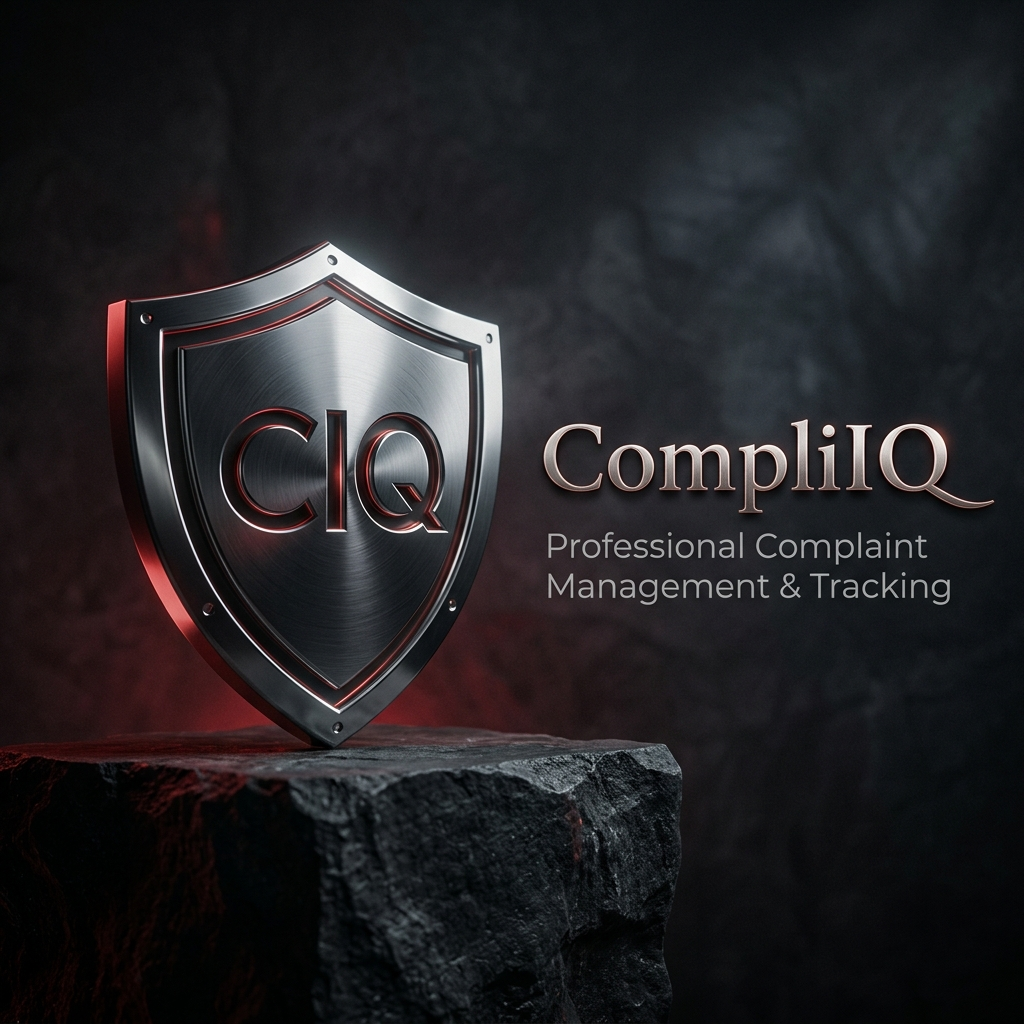
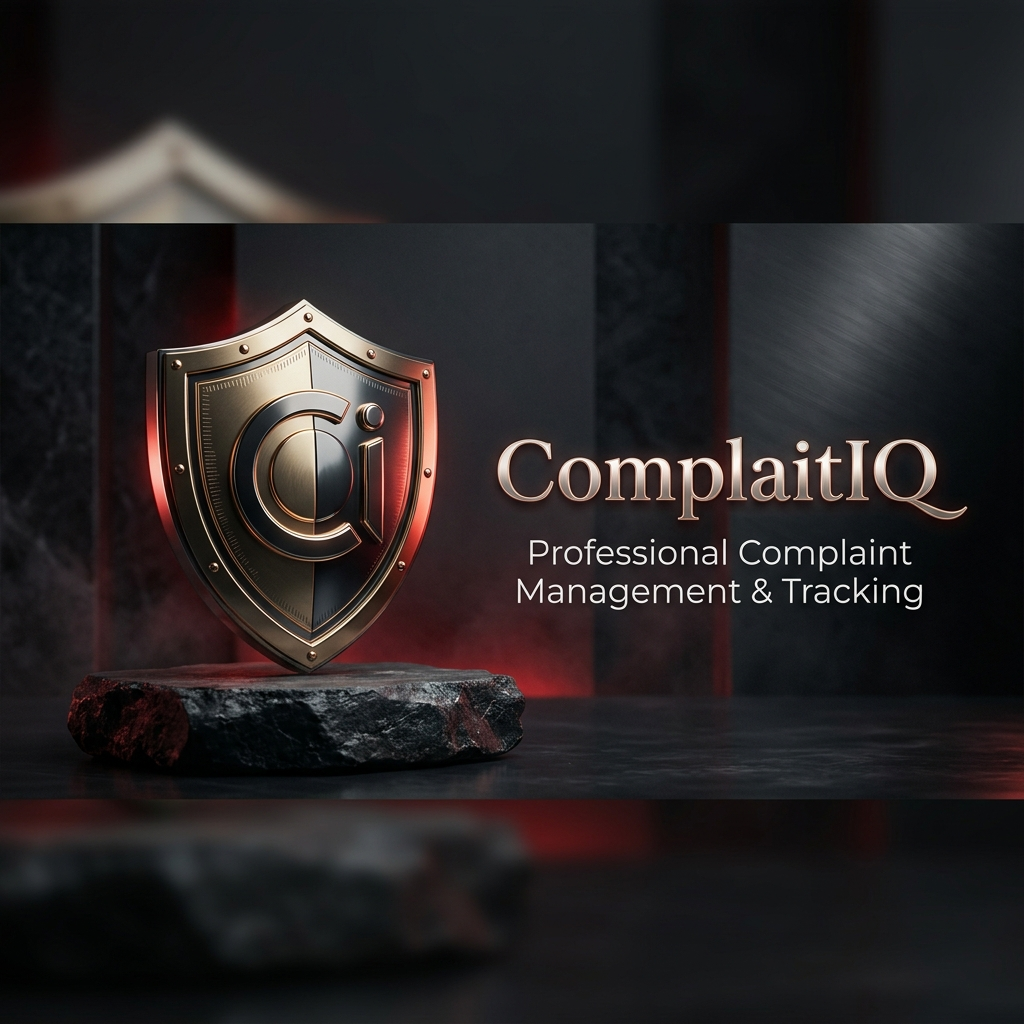
Finalize ComplaitIQ rename, SEO, and social previews

diff --git a/client/index.html b/client/index.html
@@ -6,29 +6,36 @@
     <meta name="viewport" content="width=device-width, initial-scale=1.0" />
     
     <!-- Primary Meta Tags -->
-    <title>CompliIQ — Professional Complaint Management & Tracking</title>
-    <meta name="title" content="CompliIQ — Professional Complaint Management & Tracking" />
-    <meta name="description" content="Submit, manage, and track your complaints with ease. CompliIQ provides a secure and transparent platform for quick resolutions and 24/48hr response times." />
-    <meta name="keywords" content="complaint management, ticket tracking, customer service, resolution platform, CompliIQ" />
-    <meta name="author" content="CompliIQ Team" />
+    <title>ComplaitIQ — Professional Complaint Management & Tracking</title>
+    <meta name="title" content="ComplaitIQ — Get Your Issues Resolved Fast" />
+    <meta name="description" content="Submit and track your complaints in seconds. ComplaitIQ ensures 24/48hr response times and professional resolution tracking for all your issues." />
+    <meta name="keywords" content="complaint management, ticket tracking, customer service, resolution platform, ComplaitIQ" />
+    <meta name="author" content="ComplaitIQ Team" />
 
-    <!-- Open Graph / Facebook -->
+    <!-- Schema.org for Google -->
+    <meta itemprop="name" content="ComplaitIQ — Get Your Issues Resolved Fast" />
+    <meta itemprop="description" content="Submit and track your complaints in seconds. ComplaitIQ ensures 24/48hr response times and professional resolution tracking." />
+    <meta itemprop="image" content="https://complait-iq.vercel.app/og-image.png" />
+
+    <!-- Open Graph / Facebook / WhatsApp / Telegram -->
     <meta property="og:type" content="website" />
-    <meta property="og:url" content="https://compli-iq.vercel.app/" />
-    <meta property="og:title" content="CompliIQ — Professional Complaint Management & Tracking" />
-    <meta property="og:description" content="Submit, manage, and track your complaints with ease. CompliIQ provides a secure and transparent platform for quick resolutions." />
-    <meta property="og:image" content="https://compli-iq.vercel.app/og-image.png" />
+    <meta property="og:url" content="https://complait-iq.vercel.app/" />
+    <meta property="og:title" content="ComplaitIQ — Get Your Issues Resolved Fast" />
+    <meta property="og:description" content="Stop waiting for answers. Submit your complaint and track its resolution in real-time with ComplaitIQ." />
+    <meta property="og:image" content="https://complait-iq.vercel.app/og-image.png" />
+    <meta property="og:image:width" content="1200" />
+    <meta property="og:image:height" content="630" />
 
     <!-- Twitter -->
     <meta property="twitter:card" content="summary_large_image" />
-    <meta property="twitter:url" content="https://compli-iq.vercel.app/" />
-    <meta property="twitter:title" content="CompliIQ — Professional Complaint Management & Tracking" />
-    <meta property="twitter:description" content="Submit, manage, and track your complaints with ease. CompliIQ provides a secure and transparent platform for quick resolutions." />
-    <meta property="twitter:image" content="https://compli-iq.vercel.app/og-image.png" />
+    <meta property="twitter:url" content="https://complait-iq.vercel.app/" />
+    <meta property="twitter:title" content="ComplaitIQ — Get Your Issues Resolved Fast" />
+    <meta property="twitter:description" content="Stop waiting for answers. Submit your complaint and track its resolution in real-time with ComplaitIQ." />
+    <meta property="twitter:image" content="https://complait-iq.vercel.app/og-image.png" />
 
     <!-- Performance and Theming -->
     <meta name="theme-color" content="#000000" />
-    <link rel="canonical" href="https://compli-iq.vercel.app/" />
+    <link rel="canonical" href="https://complait-iq.vercel.app/" />
   </head>
   <body>
     <div id="root"></div>

diff --git a/client/src/components/Header.tsx b/client/src/components/Header.tsx
@@ -51,7 +51,7 @@ export default function Header() {
                         className="h-full w-auto py-1"
                     />
                     <span className="font-serif text-2xl tracking-tighter">
-                        Compli<span className="text-red-500">IQ</span>
+                        Complait<span className="text-red-500">IQ</span>
                     </span>
                 </button>
 
